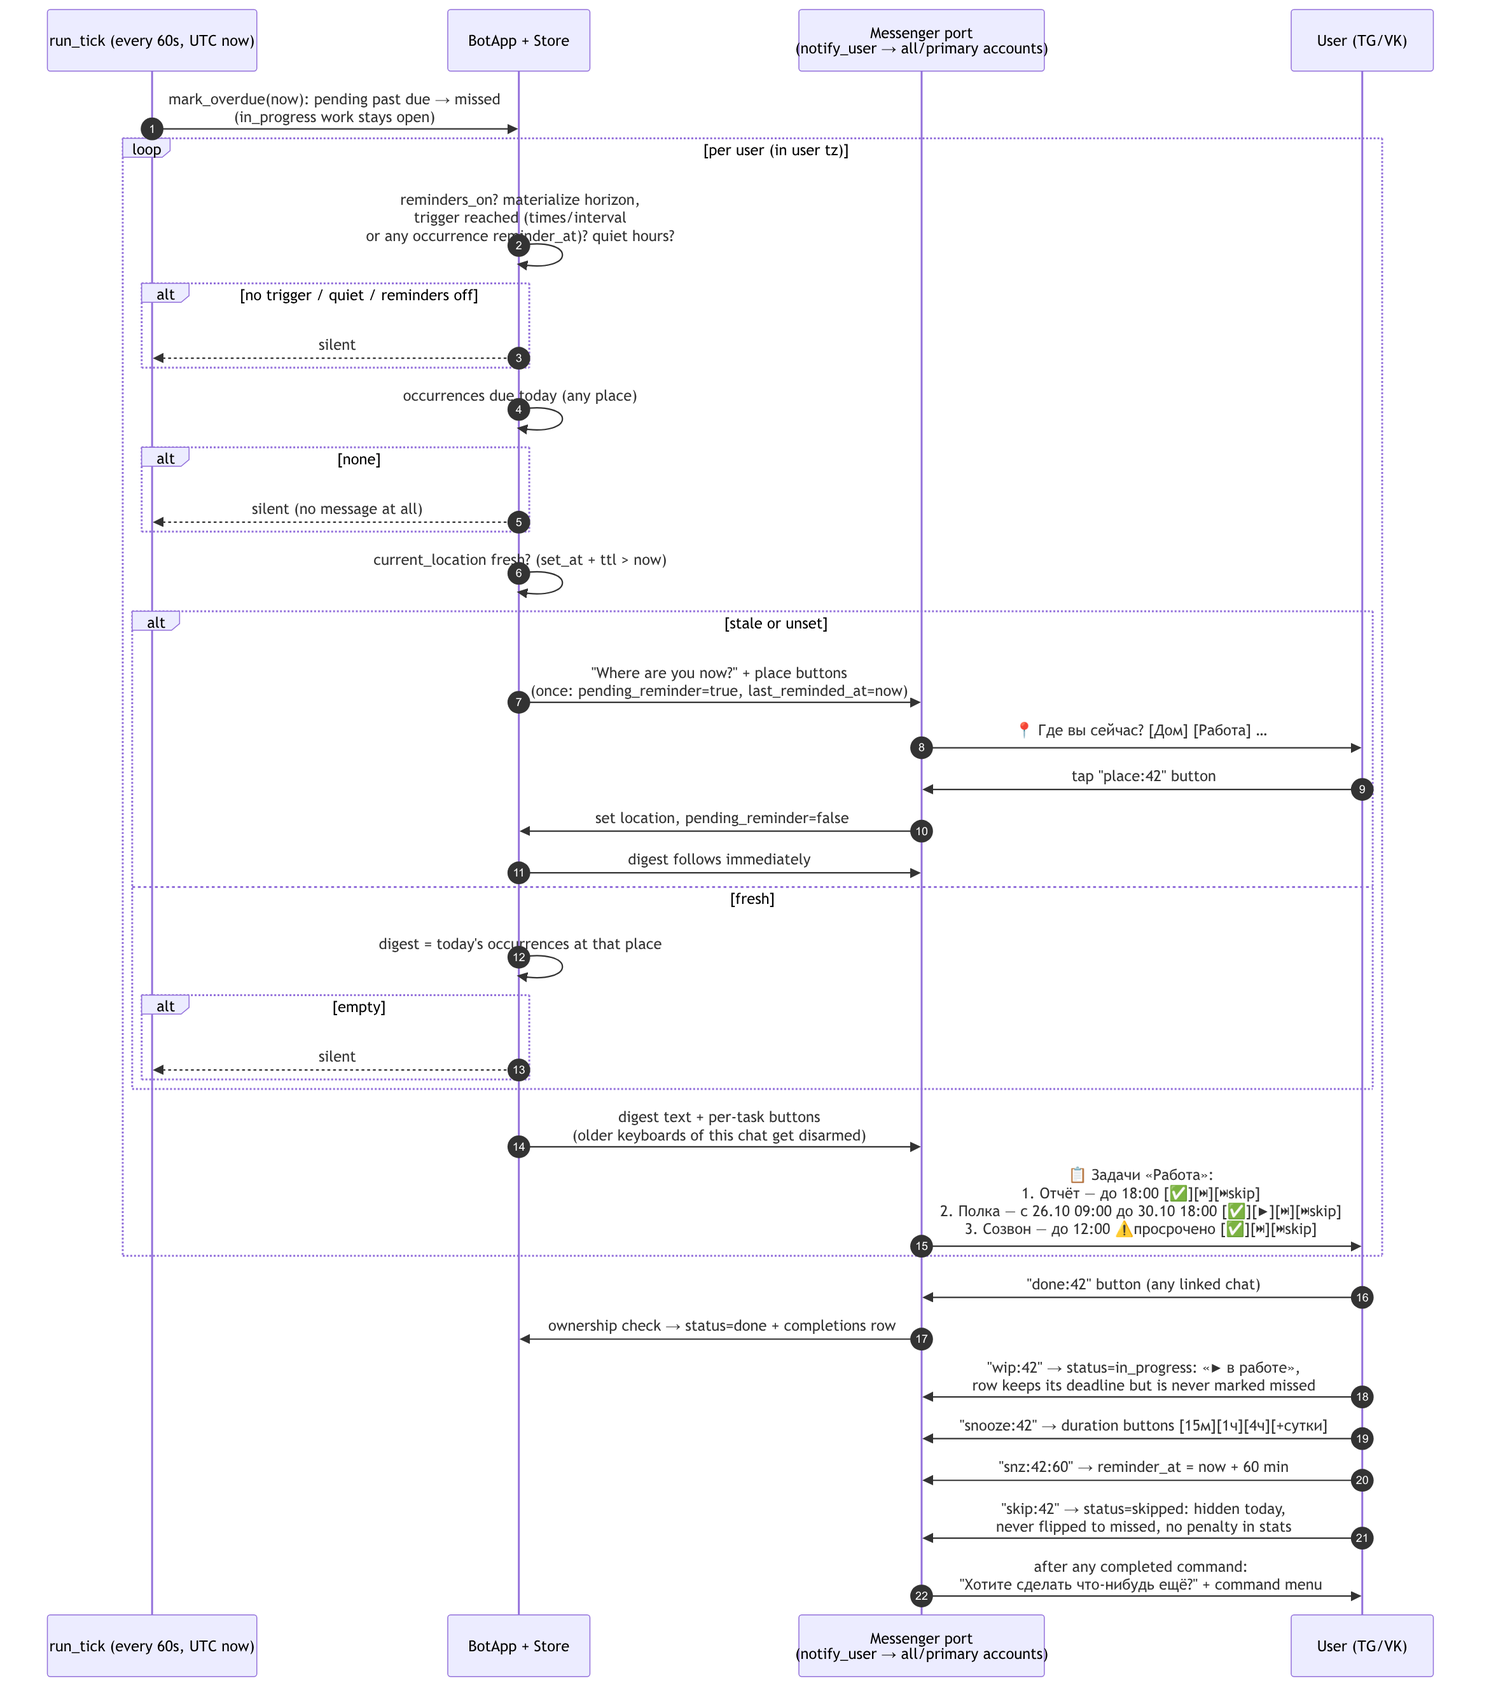
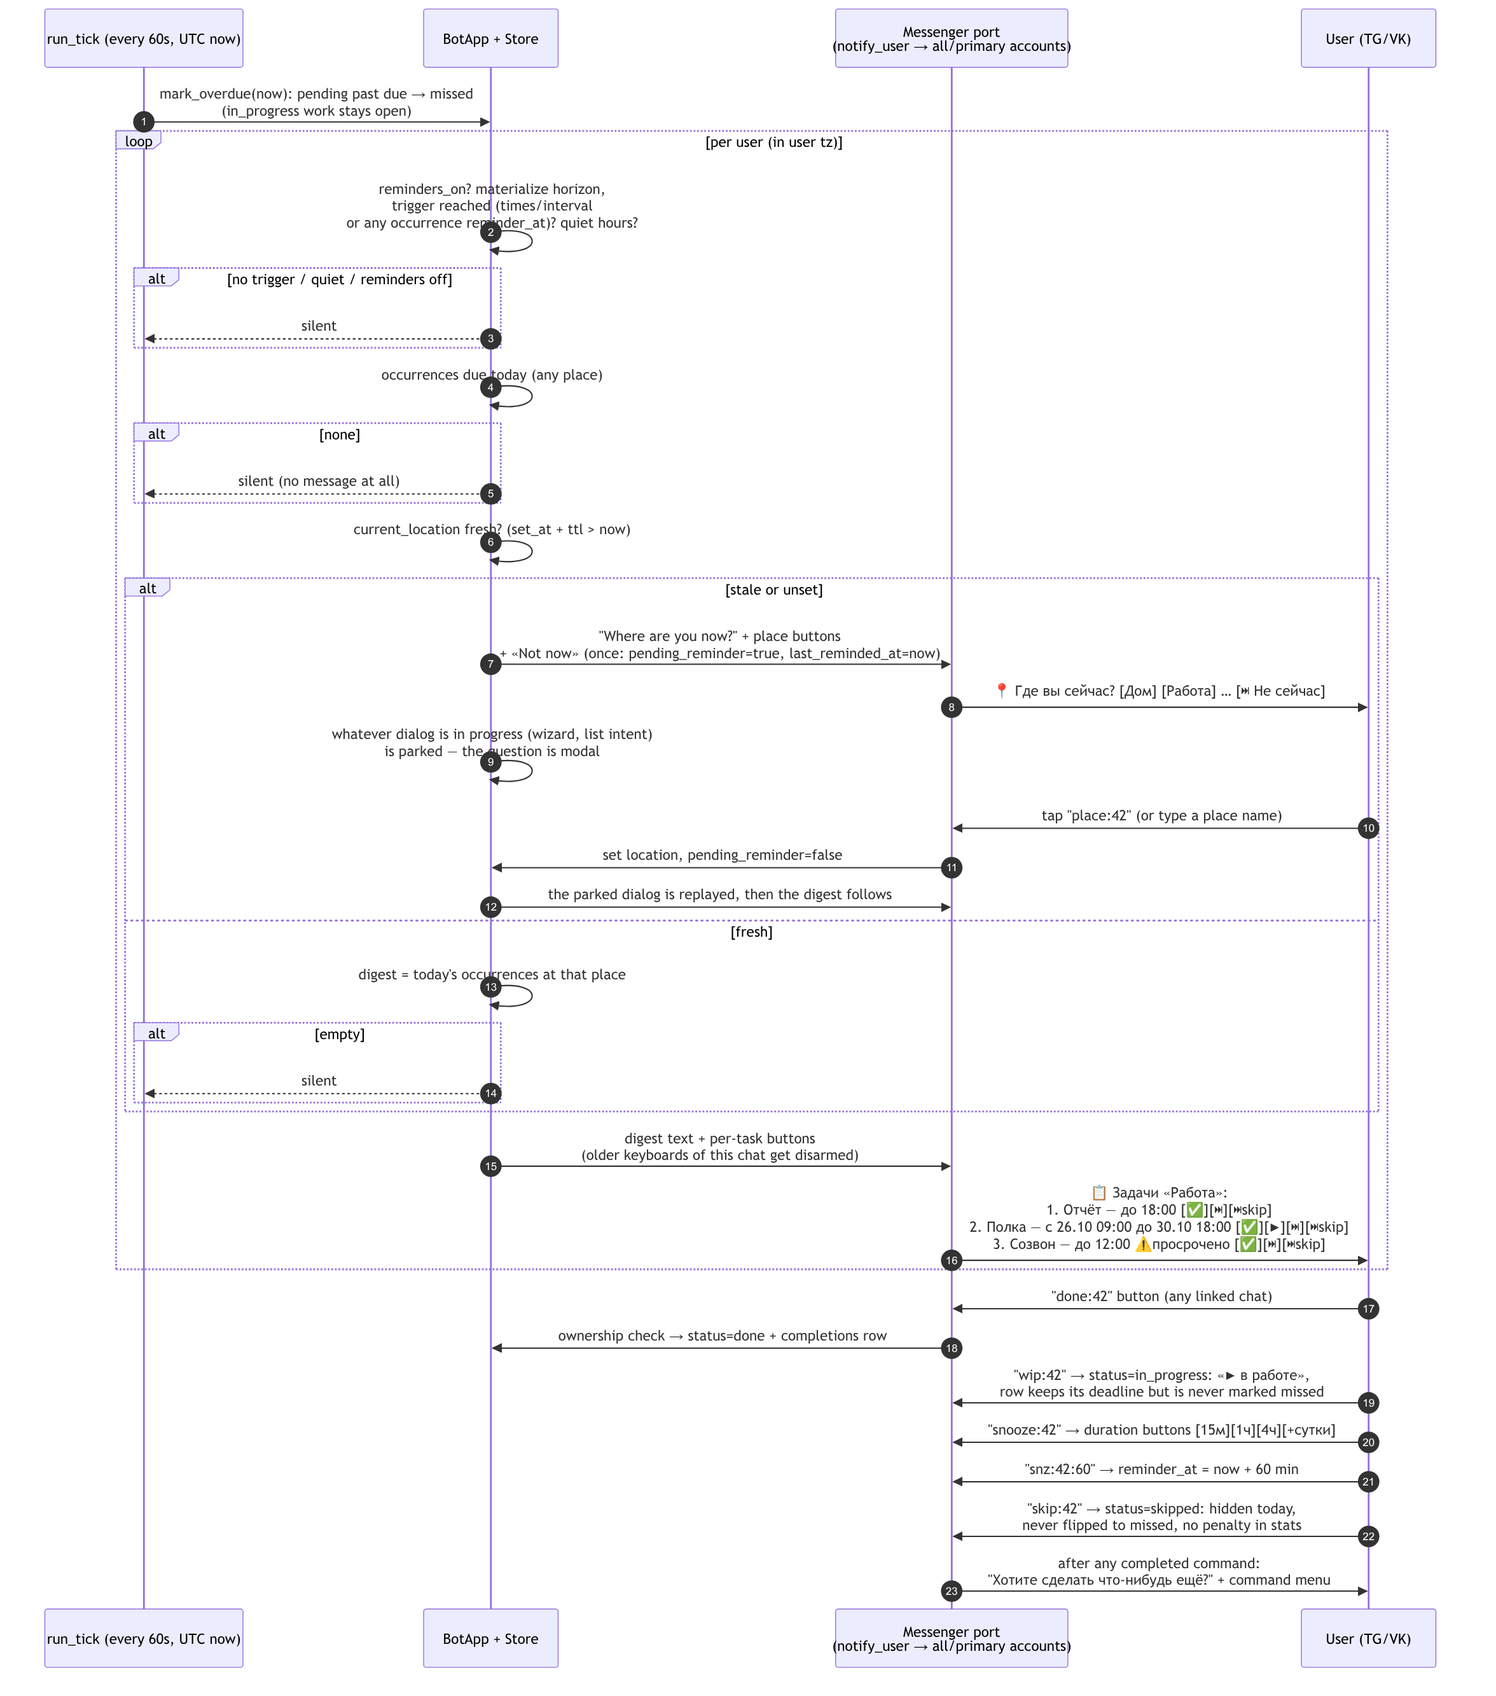
feat(bot): make «Где вы сейчас?» modal — park the dialog, replay after
When the saved location went stale, the scheduler dropped its question into
whatever dialog was open, and the next answer went to whichever context
grabbed it first: a place name meant for the task wizard changed the
location, or the wizard's own step was swallowed.

The question now owns the conversation. Anything in progress (an open
wizard step, a pending list intent) is moved aside, the answer — a tapped
place button *or* a typed place name — sets the location, and the dialog is
replayed where it stopped. A new «⏭ Не сейчас» button resumes without
picking a place, and ⬅ Назад cancels the question but keeps the dialog.
The scheduler parks the context through app.park_for_location() before it
sends its own question, so both entry points behave the same; the digest is
sent last so its buttons stay live.

diff --git a/taskshed/bot/app.py b/taskshed/bot/app.py
@@ -125,6 +125,9 @@ class BotApp:
         self._kb_msgs: dict[tuple[int, int], dict[str, str]] = {}
         # last tab of the task editor per user: where ⬅ Назад goes back to
         self._edit_tab: dict[int, str] = {}
+        # a "where are you?" that interrupted something else: the interrupted
+        # dialog lives here and is replayed once the place is known
+        self._await_loc: dict[int, dict] = {}
 
     def _track_kb(self, user_id: int, account: Account, mid: str | None,
                   text: str) -> None:
@@ -221,6 +224,18 @@ class BotApp:
                 return
             await ctx.reply(t("unknown_cmd", ctx.lang))
             return
+        if ctx.user.id in self._await_loc:
+            # the place question owns the answer now: a typed place name is it,
+            # anything else just asks the question again
+            place = await self._find_place_by_name(ctx.user.id, _defang(text.strip()))
+            if place:
+                await self._location_chosen(ctx, place)
+            else:
+                await ctx.place_buttons(
+                    "where_question",
+                    [[(t("btn_loc_later", ctx.lang), "loc:later")]]
+                    + self._back_only(ctx))
+            return
         if wizard:
             await self._wizard_input(ctx, wizard, text)
             return
@@ -259,18 +274,76 @@ class BotApp:
     def _back_only(self, ctx: Ctx) -> ButtonRows:
         return [[(t("btn_back", ctx.lang), "menu:back")]]
 
+    def _park_context(self, user_id: int) -> dict:
+        """Move an open dialog aside while a place question is being asked."""
+        parked: dict = {}
+        wizard = self.wizards.pop(user_id, None)
+        if wizard:
+            parked["wizard"] = wizard
+        pending = self._pending_inputs.pop(user_id, None)
+        if pending:
+            parked["pending"] = pending
+        return parked
+
+    def park_for_location(self, user_id: int) -> None:
+        """The scheduler is about to ask "where are you?": pause the dialog."""
+        self._await_loc[user_id] = self._park_context(user_id)
+
+    async def _ask_location(self, ctx: Ctx, resume: dict | None = None) -> None:
+        """A modal «Где вы сейчас?»: the dialog in progress waits, then resumes."""
+        self._await_loc[ctx.user.id] = (
+            self._park_context(ctx.user.id) if resume is None else resume)
+        ctx.suppress_menu = True  # question + ⏭ Позже + ⬅ Назад is the reply
+        rows = [[(t("btn_loc_later", ctx.lang), "loc:later")]] + self._back_only(ctx)
+        await ctx.place_buttons("where_question", rows)
+
+    async def _location_chosen(self, ctx: Ctx, place) -> None:
+        """The place that answers a parked question: set it, resume, digest."""
+        parked = self._await_loc.pop(ctx.user.id, None) or {}
+        await self.store.set_location(ctx.user.id, place.id)
+        was_pending = ctx.settings.pending_reminder
+        await self.store.update_settings(ctx.user.id, pending_reminder=False)
+        await ctx.reply(t("where_set", ctx.lang, name=place.name))
+        await self._replay(ctx, parked)
+        if was_pending:
+            # the digest comes last: its buttons are the ones to tap now, while
+            # the resumed dialog carries on as typed input
+            await self._digest_now(ctx.user.id, ctx.account)
+
+    async def _replay(self, ctx: Ctx, parked: dict) -> None:
+        """Put the interrupted dialog back and ask its question once more."""
+        uid = ctx.user.id
+        wizard = parked.get("wizard")
+        if wizard:
+            self.wizards[uid] = wizard
+            if wizard.get("kind") == "task":
+                await self._ask_step(ctx, wizard)
+            elif wizard.get("kind") == "addplace":
+                await self._cmd_places(ctx, "")
+            return
+        pending = parked.get("pending")
+        if pending == "tasks":
+            await self._cmd_tasks(ctx, "")
+        elif pending:
+            self._pending_inputs[uid] = pending
+
+    async def _location_later(self, ctx: Ctx) -> None:
+        """⏭ «Позже»: back to what was being typed, still without a place."""
+        parked = self._await_loc.pop(ctx.user.id, None)
+        if not parked:
+            return
+        ctx.suppress_menu = True
+        await self._replay(ctx, parked)
+
     async def _cmd_where(self, ctx: Ctx, _: str) -> None:
-        self._pending_inputs[ctx.user.id] = "where"
-        ctx.suppress_menu = True  # question + ⬅ Назад is the whole reply
-        await ctx.place_buttons("where_question", self._back_only(ctx))
+        await self._ask_location(ctx)
 
     async def _cmd_tasks(self, ctx: Ctx, _: str) -> None:
         await self.ensure_materialized(ctx)
         loc = await self.store.get_location(ctx.user.id)
         if loc is None:
-            self._pending_inputs[ctx.user.id] = "tasks"
-            ctx.suppress_menu = True
-            await ctx.place_buttons("where_question", self._back_only(ctx))
+            # the list is what we came for: it is replayed once the place is in
+            await self._ask_location(ctx, resume={"pending": "tasks"})
             return
         place, _ = loc
         await self._send_task_list(ctx, place)
@@ -1107,6 +1180,8 @@ class BotApp:
                 await handler(ctx, "")
         elif action == "place":
             await self._cb_place(ctx, int(arg))
+        elif action == "loc" and arg == "later":
+            await self._location_later(ctx)
         elif action == "sched":
             await self._cb_sched(ctx, arg)
         elif action == "wd":
@@ -1202,6 +1277,13 @@ class BotApp:
             self._pending_inputs.pop(ctx.user.id, None)  # drop awaited inputs
             if self.wizards.get(ctx.user.id, {}).get("kind") == "addplace":
                 self.wizards.pop(ctx.user.id, None)
+            parked = self._await_loc.pop(ctx.user.id, None)
+            if parked:
+                # ⬅ from a place question: drop the question, keep the dialog
+                if "wizard" in parked:
+                    self.wizards[ctx.user.id] = parked["wizard"]
+                if "pending" in parked:
+                    self._pending_inputs[ctx.user.id] = parked["pending"]
             ctx.suppress_menu = True
             await ctx.reply(t("menu_ask_more", ctx.lang),
                             self._menu_rows(ctx.lang))
@@ -1269,6 +1351,11 @@ class BotApp:
     async def _cb_place(self, ctx: Ctx, place_id: int) -> None:
         place = await self.store.get_place(ctx.user.id, place_id)
         if place is None:
+            return
+        if ctx.user.id in self._await_loc:
+            # this tap answers the parked place question, not the dialog that
+            # was interrupted by it
+            await self._location_chosen(ctx, place)
             return
         w = self.wizards.get(ctx.user.id)
         if w and w.get("kind") == "task" and w.get("step") == "place":

diff --git a/tests/test_handlers.py b/tests/test_handlers.py
@@ -330,8 +330,56 @@ class TestWhereAndTasks:
         f = await send(env, "/задачи")
         assert f.last_buttons()[0][0][1] == f"place:{pid_home}"
         f = await send(env, cb=f"place:{pid_home}")
-        # tasks list followed the location answer
-        assert "нет" in f.texts()[0].lower() or "Задачи" in f.texts()[0]
+        # the tasks list followed the location answer (the menu follow-up after)
+        joined = " | ".join(f.texts())
+        assert "нет" in joined.lower() or "Задачи" in joined
+
+
+class TestLocationQuestionIsModal:
+    """«Где вы сейчас?» waits: the interrupted dialog is replayed after it."""
+
+    async def _wizard_awaiting_place(self, env):
+        app, store, _ = env
+        await send(env, "Дом")
+        user = await store.get_user_by_account("telegram", PID)
+        home = await place_id_of(store, user.id, "Дом")
+        await send(env, "/задача")
+        await send(env, "Полка")           # the wizard sits on its place step
+        app.park_for_location(user.id)     # exactly what the scheduler does
+        return app, store, user, home
+
+    async def test_tapping_a_place_resumes_the_wizard(self, env):
+        app, store, user, home = await self._wizard_awaiting_place(env)
+        f = await send(env, cb=f"place:{home}")
+        assert "Текущее место" in f.texts()[0]
+        assert app.wizards[user.id]["step"] == "place", "the dialog came back"
+        await send(env, cb=f"place:{home}")   # this one belongs to the wizard
+        f = await send(env, cb="sched:every_n_days")
+        assert "сколько дней" in f.texts()[0]
+
+    async def test_typing_a_place_name_answers_it(self, env):
+        app, store, user, home = await self._wizard_awaiting_place(env)
+        f = await send(env, "дом")           # any case
+        assert "Текущее место" in f.texts()[0]
+        assert (await store.get_location(user.id))[0].name == "Дом"
+        assert app.wizards[user.id]["step"] == "place"
+
+    async def test_nonsense_does_not_leak_into_the_wizard(self, env):
+        app, store, user, home = await self._wizard_awaiting_place(env)
+        f = await send(env, "ну-ка")
+        assert "Где вы сейчас?" in f.texts()[0]      # asked again, not eaten
+        assert await store.get_location(user.id) is None
+        # the dialog is still parked, untouched, behind the question
+        assert app._await_loc[user.id]["wizard"]["step"] == "place"
+
+    async def test_not_now_goes_straight_back_to_the_dialog(self, env):
+        app, store, user, home = await self._wizard_awaiting_place(env)
+        f = await send(env, cb="loc:later")
+        assert "местности" in f.texts()[0]           # the wizard's own question
+        assert await store.get_location(user.id) is None
+        await send(env, cb=f"place:{home}")
+        f = await send(env, cb="sched:every_n_days")
+        assert "сколько дней" in f.texts()[0]
 
 
 class TestStatsCommands:

diff --git a/taskshed/scheduler/jobs.py b/taskshed/scheduler/jobs.py
@@ -116,7 +116,11 @@ async def _tick_user(app: BotApp, store: Store, user_id: int, now: datetime) -> 
     if user:
         lang = user.language
     rows = [[(p.name, f"place:{p.id}")] for p in places]
+    rows.append([(t("btn_loc_later", lang), "loc:later")])
     rows.append([(t("btn_back", lang), "menu:back")])
+    # whatever the user was typing waits here until the place is known, and is
+    # put back afterwards instead of being eaten by this question
+    app.park_for_location(user_id)
     await app.notify_user(user_id, t("digest_where", lang), rows)
     await store.update_settings(user_id, pending_reminder=True, last_reminded_at=now)
 

diff --git a/README.ru.md b/README.ru.md
@@ -36,7 +36,9 @@
 - В чате остаётся кликабельным только последний экран: кнопки у старых
   сообщений снимаются.
 - **Без шума**: нет задач на сегодня — бот молчит; нет задач по текущему месту
-  — тоже молчит. Место «протухло» — бот лишь спрашивает «Где вы сейчас?».
+  — тоже молчит. Место «протухло» — бот лишь спрашивает «Где вы сейчас?», и этот
+  вопрос модальный: если вы были в середине диалога (анкета задачи, отчёт), он
+  ждёт за ним и возвращается после ответа — либо жмёте ⏭ «Не сейчас».
 - **Статистика**: текстовая сводка, выгрузка CSV/XLSX, PNG-графика — тепловая
   карта активности в стиле GitHub (метки просроченных/запланированных/
   пропущенных, окно графика всегда вытянуто на выбранный горизонт вперёд — по

diff --git a/CHANGELOG.md b/CHANGELOG.md
@@ -138,6 +138,16 @@ The format follows [Keep a Changelog](https://keepachangelog.com/en/1.1.0/).
   no band from the start up to midnight (`stats.occurrence_hours` now takes the
   task into account, not just the occurrence).
 
+- **«Где вы сейчас?» no longer hijacks the conversation**: when the location is
+  stale the scheduler used to drop its question into the middle of an open
+  dialog, and the answer went to whichever context grabbed the text first — a
+  place name typed for the task wizard became a location change, or vice versa.
+  The question is modal now: the open dialog (wizard step, or the intent to
+  show a task list) is parked, the answer — button *or* typed place name — sets
+  the location, and the dialog is replayed exactly where it stopped. A new
+  **⏭ Не сейчас** button returns to the dialog without choosing a place, and
+  ⬅ Назад cancels the question but keeps the dialog.
+
 ### Fixed
 - **The main menu comes back after every action**: the task-editor card and the
   places screen used to leave a dialog open in memory, so the *next* answer

diff --git a/docs/en/architecture.md b/docs/en/architecture.md
@@ -236,11 +236,12 @@ sequenceDiagram
         end
         Core->>Core: current_location fresh? (set_at + ttl > now)
         alt stale or unset
-            Core->>Msg: "Where are you now?" + place buttons<br/>(once: pending_reminder=true, last_reminded_at=now)
-            Msg->>U: 📍 Где вы сейчас? [Дом] [Работа] …
-            U->>Msg: tap "place:42" button
+            Core->>Msg: "Where are you now?" + place buttons<br/>+ «Not now» (once: pending_reminder=true, last_reminded_at=now)
+            Msg->>U: 📍 Где вы сейчас? [Дом] [Работа] … [⏭ Не сейчас]
+            Core->>Core: whatever dialog is in progress (wizard, list intent)<br/>is parked — the question is modal
+            U->>Msg: tap "place:42" (or type a place name)
             Msg->>Core: set location, pending_reminder=false
-            Core->>Msg: digest follows immediately
+            Core->>Msg: the parked dialog is replayed, then the digest follows
         else fresh
             Core->>Core: digest = today's occurrences at that place
             alt empty

diff --git a/docs/ru/architecture.md b/docs/ru/architecture.md
@@ -236,11 +236,12 @@ sequenceDiagram
         end
         Core->>Core: current_location fresh? (set_at + ttl > now)
         alt stale or unset
-            Core->>Msg: "Where are you now?" + place buttons<br/>(once: pending_reminder=true, last_reminded_at=now)
-            Msg->>U: 📍 Где вы сейчас? [Дом] [Работа] …
-            U->>Msg: tap "place:42" button
+            Core->>Msg: "Where are you now?" + place buttons<br/>+ «Not now» (once: pending_reminder=true, last_reminded_at=now)
+            Msg->>U: 📍 Где вы сейчас? [Дом] [Работа] … [⏭ Не сейчас]
+            Core->>Core: whatever dialog is in progress (wizard, list intent)<br/>is parked — the question is modal
+            U->>Msg: tap "place:42" (or type a place name)
             Msg->>Core: set location, pending_reminder=false
-            Core->>Msg: digest follows immediately
+            Core->>Msg: the parked dialog is replayed, then the digest follows
         else fresh
             Core->>Core: digest = today's occurrences at that place
             alt empty

diff --git a/README.md b/README.md
@@ -34,7 +34,9 @@ platform-independent core.
 - Only the newest screen stays clickable: keyboards of older messages are
   stripped automatically.
 - **No noise**: if you have no tasks today, or none match your current place,
-  the bot says nothing. Stale location → it just asks "Where are you now?".
+  the bot says nothing. Stale location → it just asks "Where are you now?", and
+  that question is modal: a dialog you were in the middle of (task wizard,
+  report) waits behind it and is replayed afterwards — or you tap ⏭ Not now.
 - **Statistics**: text summary, CSV/XLSX export, PNG charts — a GitHub-style
   activity heatmap (missed / planned / skipped markers, always drawn up to the
   horizon ahead — default one week, and never shorter than the period being

diff --git a/docs/PLAN.md b/docs/PLAN.md
@@ -137,6 +137,8 @@ Checklist of the implementation roadmap. EN summary in
       (reminder only), drawn as one hour on the hour map, not a band
 - [x] Chart window = max(user horizon, period length) ahead, with occurrences
       materialized across the whole window (repeats draw on every planned day)
+- [x] Modal «Где вы сейчас?»: an open wizard/list intent is parked, the place
+      answer (button or typed name) resumes it; «⏭ Не сейчас» skips the question
 
 ## Backlog / known limitations
 - VK photo/document upload for charts is best-effort (falls back to text).
